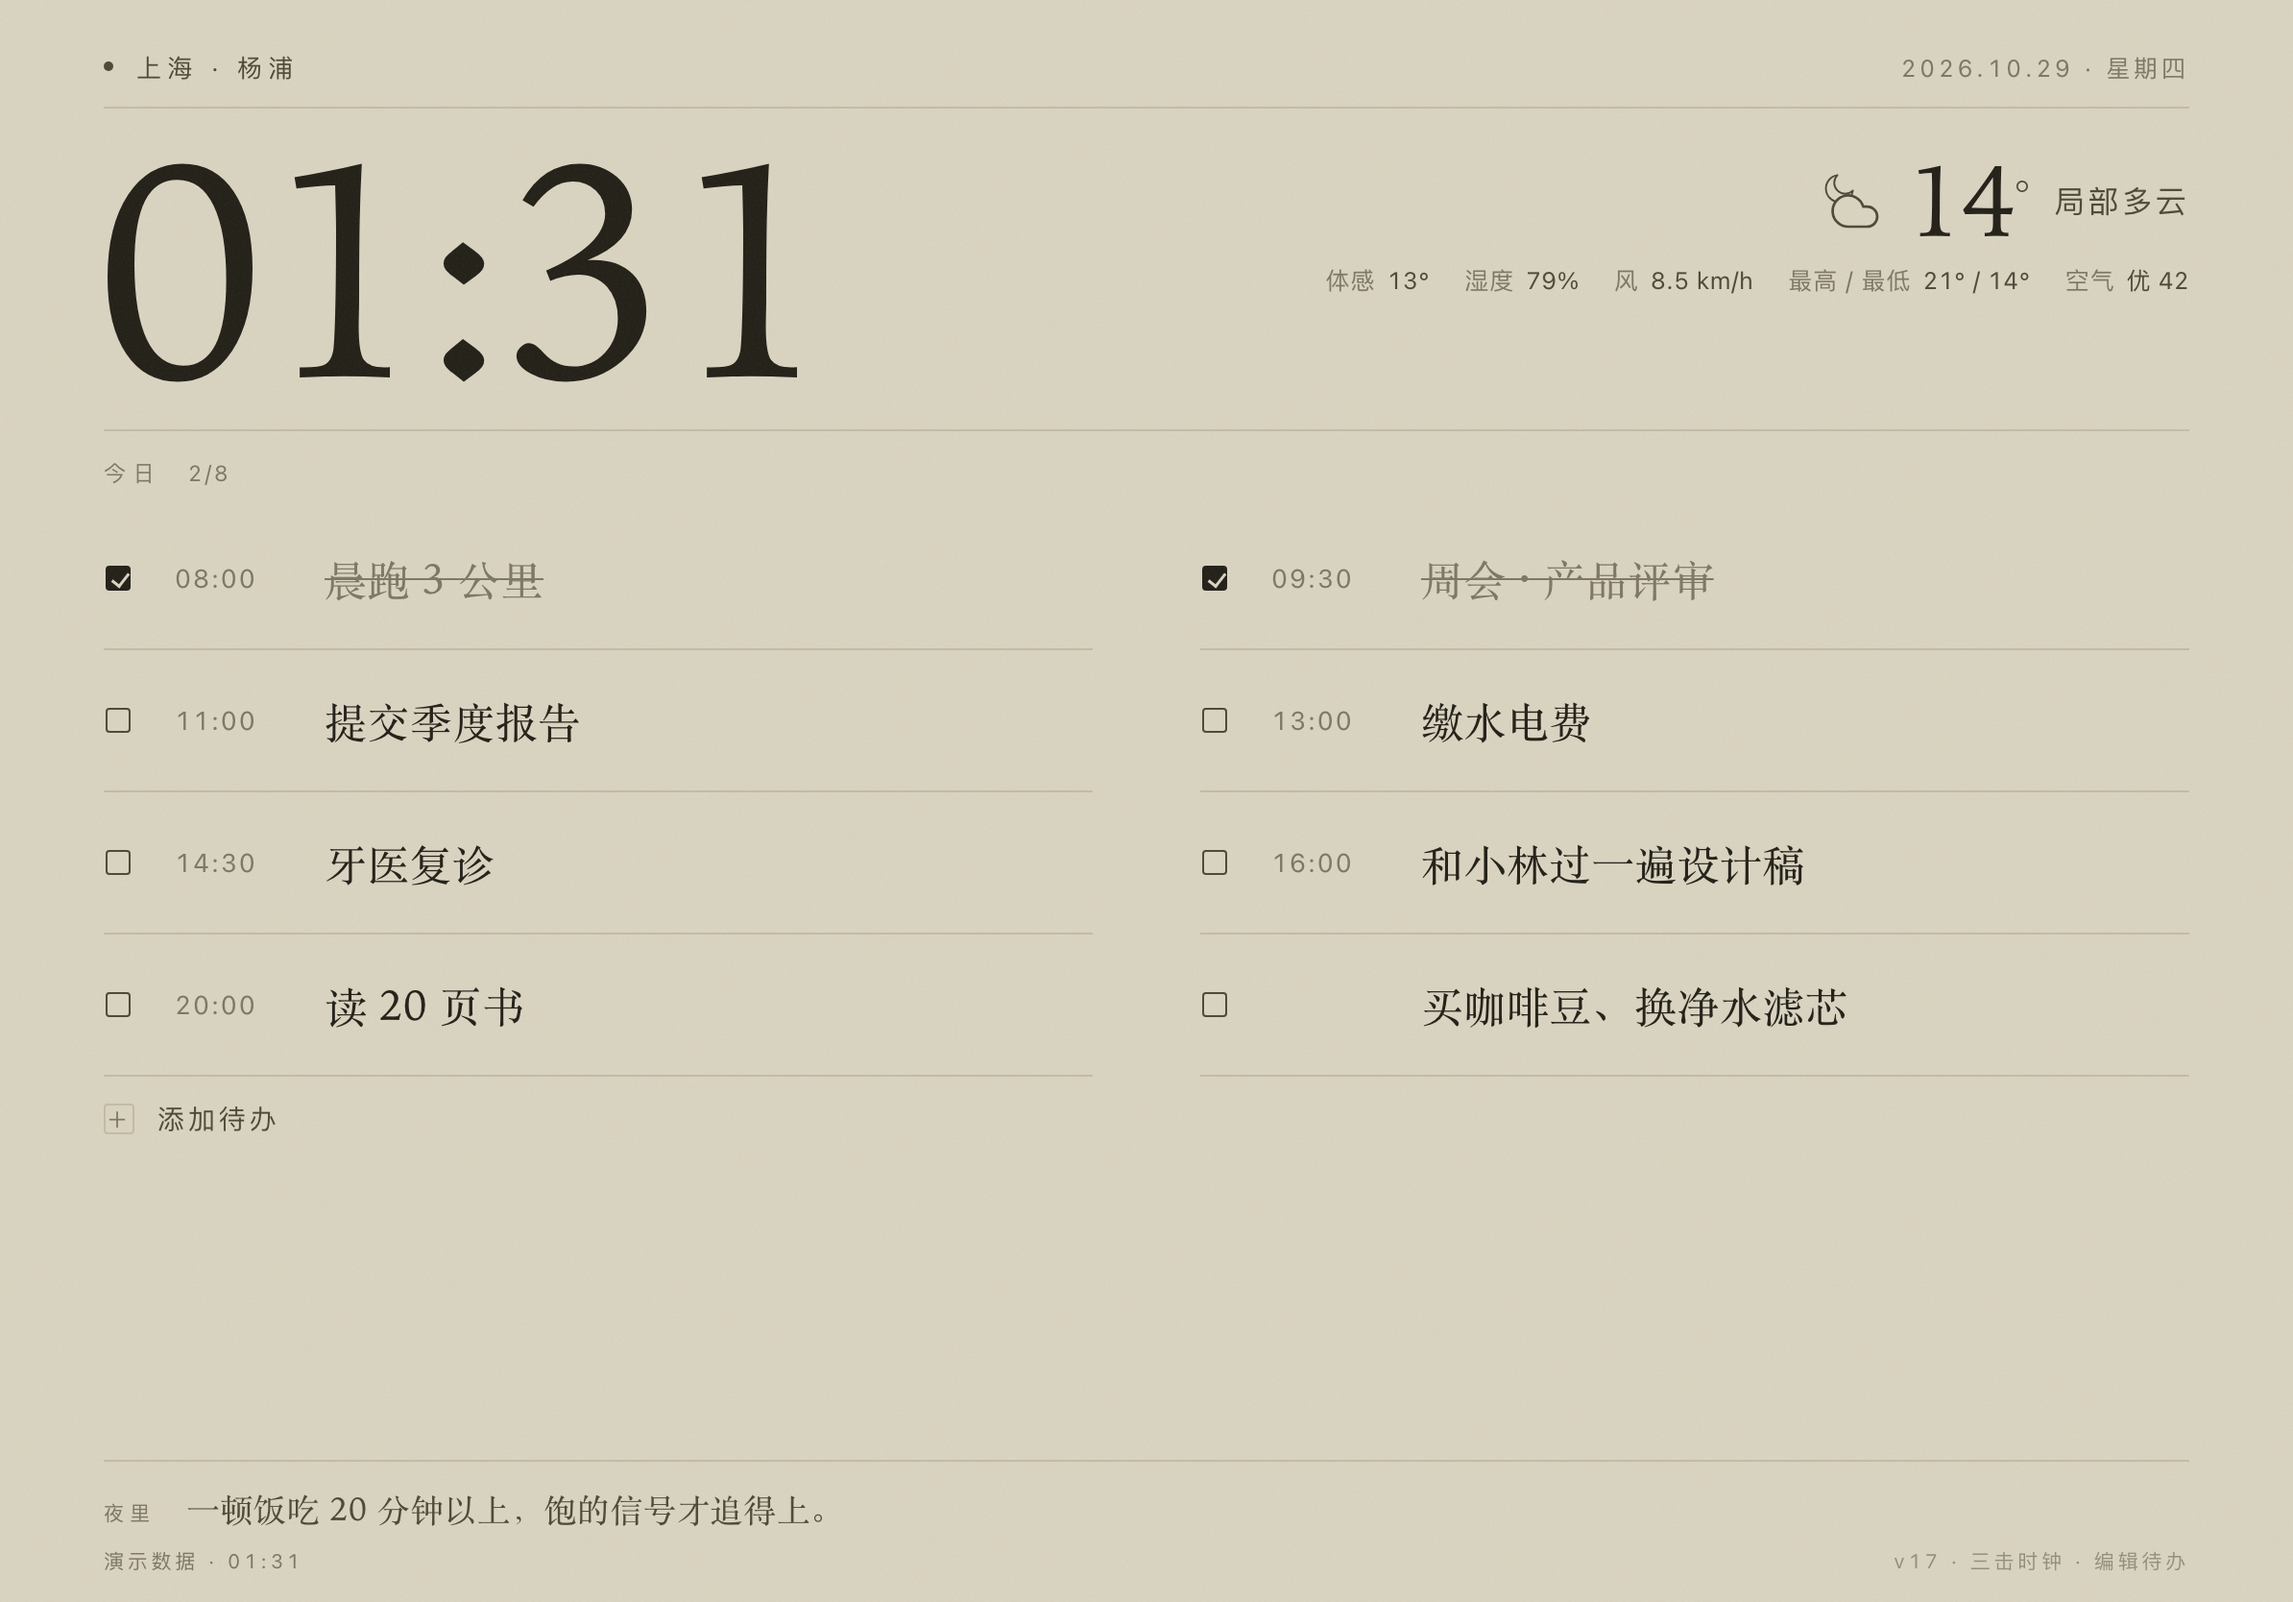
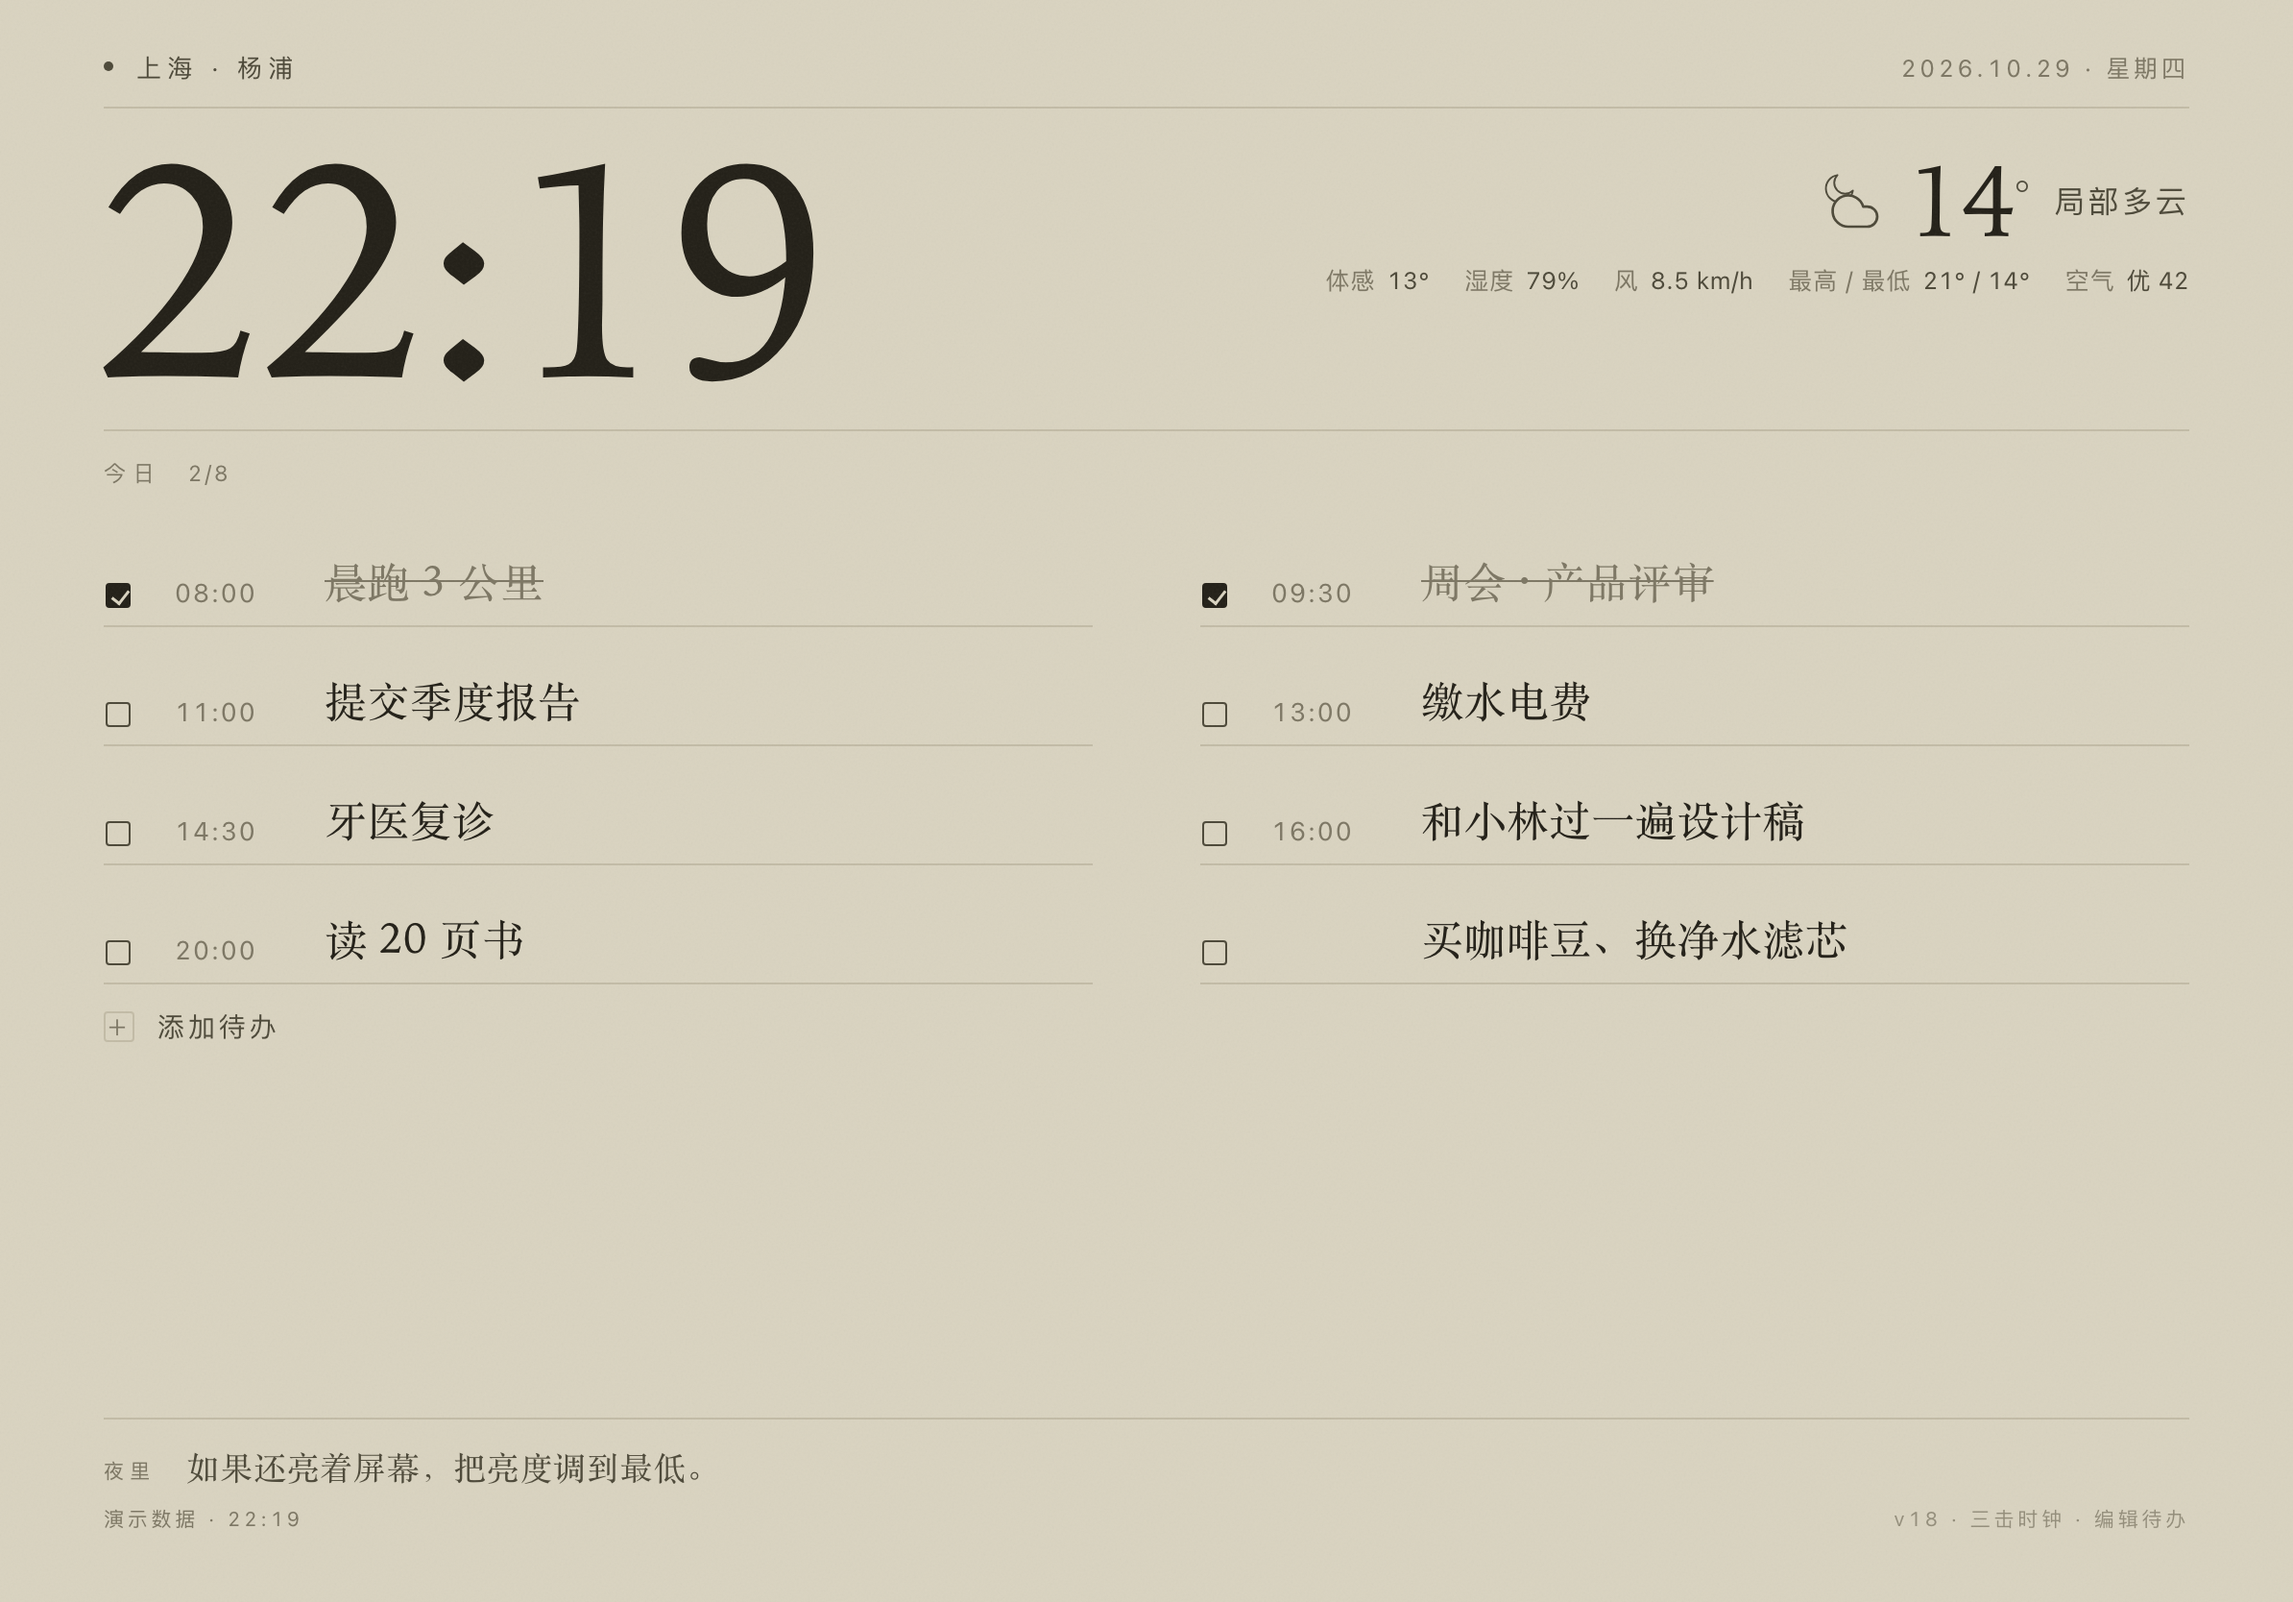
底部留白加大、待办行文字贴近横线、只有方框可勾选（v18）

diff --git a/index.html b/index.html
@@ -56,7 +56,7 @@
     position:relative;z-index:1;
     height:100%;
     display:flex;flex-direction:column;
-    padding:26px var(--pad-x) calc(14px + env(safe-area-inset-bottom, 0px));
+    padding:26px var(--pad-x) calc(36px + env(safe-area-inset-bottom, 0px));
     transition:transform 1s ease;
   }
 
@@ -128,26 +128,29 @@
     list-style:none;margin:10px 0 0;padding:0;
     display:grid;
     grid-template-columns:minmax(0,1fr) minmax(0,1fr);
-    grid-template-rows:repeat(var(--rows,1),74px);
+    grid-template-rows:repeat(var(--rows,1),62px);
     grid-auto-flow:row;
     column-gap:56px;row-gap:0;
     min-height:0;flex:0 1 auto;
   }
   .todo{
     display:grid;grid-template-columns:20px 62px minmax(0,1fr);
-    align-items:center;gap:16px;
-    padding:13px 0 13px 1px;border-bottom:1px solid var(--rule);
-    cursor:pointer;
+    align-items:end;gap:16px;
+    padding:0 0 9px 1px;border-bottom:1px solid var(--rule);
+    cursor:default;
   }
   /* 待办较多时压缩行高 */
-  #left.tight .todo{padding:6px 0 6px 1px}
+  #left.tight .todo{padding:0 0 5px 1px}
   #left.tight .todo .txt{font-size:20.5px}
 
   .box{
     position:relative;top:0;
     width:13px;height:13px;border:1px solid var(--ink-2);border-radius:2px;
     transition:background-color .25s ease,border-color .25s ease;
+    cursor:pointer;
   }
+  /* 扩大点击热区，但不影响文字区域 */
+  .box::before{content:"";position:absolute;inset:-16px -12px}
   .todo.done .box{background:var(--ink);border-color:var(--ink)}
   .todo.done .box::after{
     content:"";position:absolute;left:4px;top:1px;width:4px;height:7.5px;
@@ -692,7 +695,7 @@
     ]
   };
 
-  const BUILD = "v17";   // 改版时 +1，页脚可见，用来确认主屏 App 拿到的是哪一版
+  const BUILD = "v18";   // 改版时 +1，页脚可见，用来确认主屏 App 拿到的是哪一版
 
   const params = new URLSearchParams(location.search);
   const DEMO_MODE = params.has("demo");
@@ -1143,8 +1146,8 @@
     const shown = sortItems(list).slice(0, max);
 
     $("#todoList").innerHTML = shown.map(t =>
-      '<li class="todo' + (t.done ? " done" : "") + '" data-id="' + t.id + '" role="button" tabindex="0">' +
-        '<span class="box"></span>' +
+      '<li class="todo' + (t.done ? " done" : "") + '" data-id="' + t.id + '">' +
+        '<span class="box" role="button" tabindex="0" aria-label="标记完成"></span>' +
         '<span class="tm">' + esc(t.time || "") + "</span>" +
         '<span class="txt">' + esc(t.text) + "</span>" +
       "</li>"
@@ -1185,9 +1188,10 @@
   }
 
   $("#todoList").addEventListener("click", e => {
-    const li = e.target.closest(".todo");
-    if (!li) return;
-    toggleTodo(li.dataset.id);
+    const box = e.target.closest(".box");
+    if (!box) return;                      // 点文字或空白不勾选
+    const li = box.closest(".todo");
+    if (li) toggleTodo(li.dataset.id);
   });
 
   /* =====================================================================
